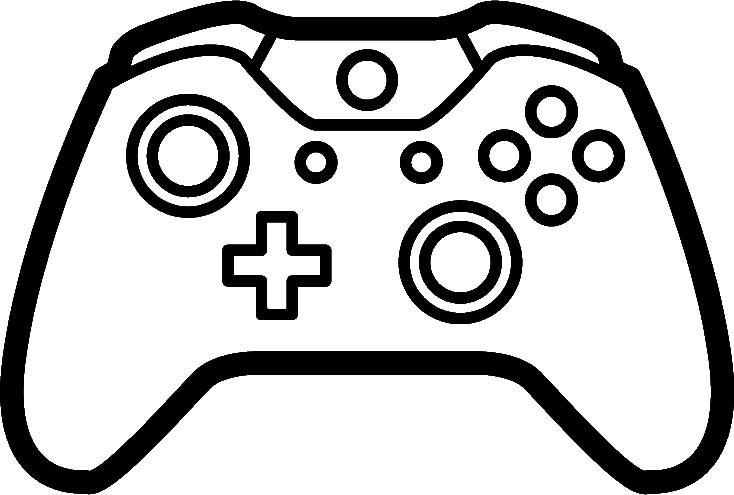
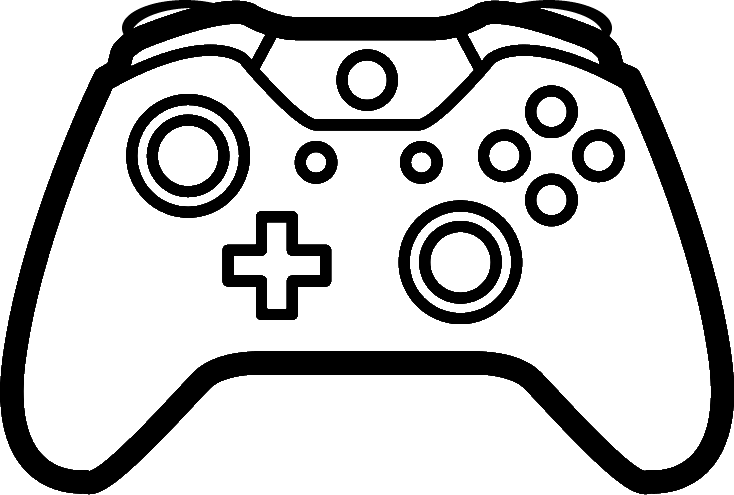
add Xbox triggers and Dpad support in GamepadScheme component

Changed region(s): [[0.7193, 0.0, 0.8392, 0.0909], [0.1499, 0.0, 0.2997, 0.0606]]

diff --git a/src/components/GamepadPreview/GamepadScheme/GamepadScheme.jsx b/src/components/GamepadPreview/GamepadScheme/GamepadScheme.jsx
@@ -1,6 +1,7 @@
 import styles from './GamepadScheme.module.css';
 import xboxLayout from '../../../assets/gamepads/xbox/main.png';
 import xboxLB from '../../../assets/gamepads/xbox/LB.png';
+import xboxLT from '../../../assets/gamepads/xbox/LT.png';
 
 const GamepadScheme = (props) => {
   const gamepad = props.gamepad
@@ -16,48 +17,94 @@ const GamepadScheme = (props) => {
   return (
     <div className={styles.gamepadSchemeContainer}>
       <img className={styles.gamepadSchemeImage} src={xboxLayout} alt='' />
-      <span
-        className={`${styles.button} ${styles.buttonA} ${
-          gamepad.buttons[0].pressed ? styles.pressed : ''
-        }`}
-      >
-        A
-      </span>
-      <span
-        className={`${styles.button} ${styles.buttonB} ${
-          gamepad.buttons[1].pressed ? styles.pressed : ''
-        }`}
-      >
-        B
-      </span>
-      <span
-        className={`${styles.button} ${styles.buttonX} ${
-          gamepad.buttons[2].pressed ? styles.pressed : ''
-        }`}
-      >
-        X
-      </span>
-      <span
-        className={`${styles.button} ${styles.buttonY} ${
-          gamepad.buttons[3].pressed ? styles.pressed : ''
-        }`}
-      >
-        Y
-      </span>
-      <img
-        className={`${styles.xboxBumper} ${styles.xboxLB} ${
-          gamepad.buttons[4].pressed ? styles.xboxBumperPressed : ''
-        }`}
-        src={xboxLB}
-        alt=''
-      />
-      <img
-        className={`${styles.xboxBumper} ${styles.xboxRB} ${
-          gamepad.buttons[5].pressed ? styles.xboxBumperPressed : ''
-        }`}
-        src={xboxLB}
-        alt=''
-      />
+      <>
+        {/* A/B/X/Y */}
+        <span
+          className={`${styles.button} ${styles.buttonA} ${
+            gamepad.buttons[0].pressed ? styles.pressed : ''
+          }`}
+        >
+          A
+        </span>
+        <span
+          className={`${styles.button} ${styles.buttonB} ${
+            gamepad.buttons[1].pressed ? styles.pressed : ''
+          }`}
+        >
+          B
+        </span>
+        <span
+          className={`${styles.button} ${styles.buttonX} ${
+            gamepad.buttons[2].pressed ? styles.pressed : ''
+          }`}
+        >
+          X
+        </span>
+        <span
+          className={`${styles.button} ${styles.buttonY} ${
+            gamepad.buttons[3].pressed ? styles.pressed : ''
+          }`}
+        >
+          Y
+        </span>
+      </>
+      <>
+        {/* LB/RB */}
+        <img
+          className={`${styles.xboxBumper} ${styles.xboxLB} ${
+            gamepad.buttons[4].pressed ? styles.xboxBumperPressed : ''
+          }`}
+          src={xboxLB}
+          alt='LB'
+        />
+        <img
+          className={`${styles.xboxBumper} ${styles.xboxRB} ${
+            gamepad.buttons[5].pressed ? styles.xboxBumperPressed : ''
+          }`}
+          src={xboxLB}
+          alt='RB'
+        />
+      </>
+      <>
+        {/* LT/RT */}
+        <img
+          src={xboxLT}
+          alt='LT'
+          className={`${styles.xboxTrigger} ${styles.xboxLT} ${
+            gamepad.buttons[6].pressed ? styles.xboxTriggerPressed : ''
+          }`}
+        />
+        <img
+          src={xboxLT}
+          alt='RT'
+          className={`${styles.xboxTrigger} ${styles.xboxRT} ${
+            gamepad.buttons[7].pressed ? styles.xboxTriggerPressed : ''
+          }`}
+        />
+      </>
+      <>
+        {/* D-Pad */}
+        <div
+          className={`${styles.xboxDpad} ${styles.xboxDpadUP} ${
+            gamepad.buttons[12].pressed ? styles.xboxDpadPressed : ''
+          }`}
+        ></div>
+        <div
+          className={`${styles.xboxDpad} ${styles.xboxDpadRight}  ${
+            gamepad.buttons[15].pressed ? styles.xboxDpadPressed : ''
+          }`}
+        ></div>
+        <div
+          className={`${styles.xboxDpad} ${styles.xboxDpadDown}  ${
+            gamepad.buttons[13].pressed ? styles.xboxDpadPressed : ''
+          }`}
+        ></div>
+        <div
+          className={`${styles.xboxDpad} ${styles.xboxDpadLeft}  ${
+            gamepad.buttons[14].pressed ? styles.xboxDpadPressed : ''
+          }`}
+        ></div>
+      </>
     </div>
   );
 };

diff --git a/src/components/GamepadPreview/GamepadScheme/GamepadScheme.module.css b/src/components/GamepadPreview/GamepadScheme/GamepadScheme.module.css
@@ -76,3 +76,77 @@
   transform: scaleX(-1);
   right: 57px;
 }
+
+.xboxTrigger {
+  position: absolute;
+  top: 3.4px;
+  width: 25.5px;
+  opacity: 0;
+
+  transition: opacity 0.08s linear;
+}
+
+.xboxLT {
+  left: 58.1px;
+}
+
+.xboxRT {
+  transform: scaleX(-1);
+  right: 58.1px;
+}
+
+.xboxTriggerPressed {
+  opacity: 1;
+}
+
+.xboxDpad {
+  position: absolute;
+
+  background-color: rgb(191, 0, 0);
+  opacity: 0;
+  transition: opacity 0.08s linear;
+}
+
+.xboxDpadPressed {
+  opacity: 1;
+}
+
+.xboxDpadUP {
+  width: 8.9px;
+  height: 13px;
+
+  border-radius: 1px 1px 0 0;
+
+  left: 116.29px;
+  top: 96.7px;
+}
+
+.xboxDpadRight {
+  width: 13px;
+  height: 8.9px;
+
+  border-radius: 0 1px 1px 0;
+
+  left: 126.5px;
+  top: 111.3px;
+}
+
+.xboxDpadDown {
+  width: 8.9px;
+  height: 13px;
+
+  left: 116.29px;
+  top: 121.7px;
+
+  border-radius: 0 0 1px 1px;
+}
+
+.xboxDpadLeft {
+  width: 13px;
+  height: 8.9px;
+
+  left: 101.8px;
+  top: 111.3px;
+
+  border-radius: 1px 0 0 1px;
+}
